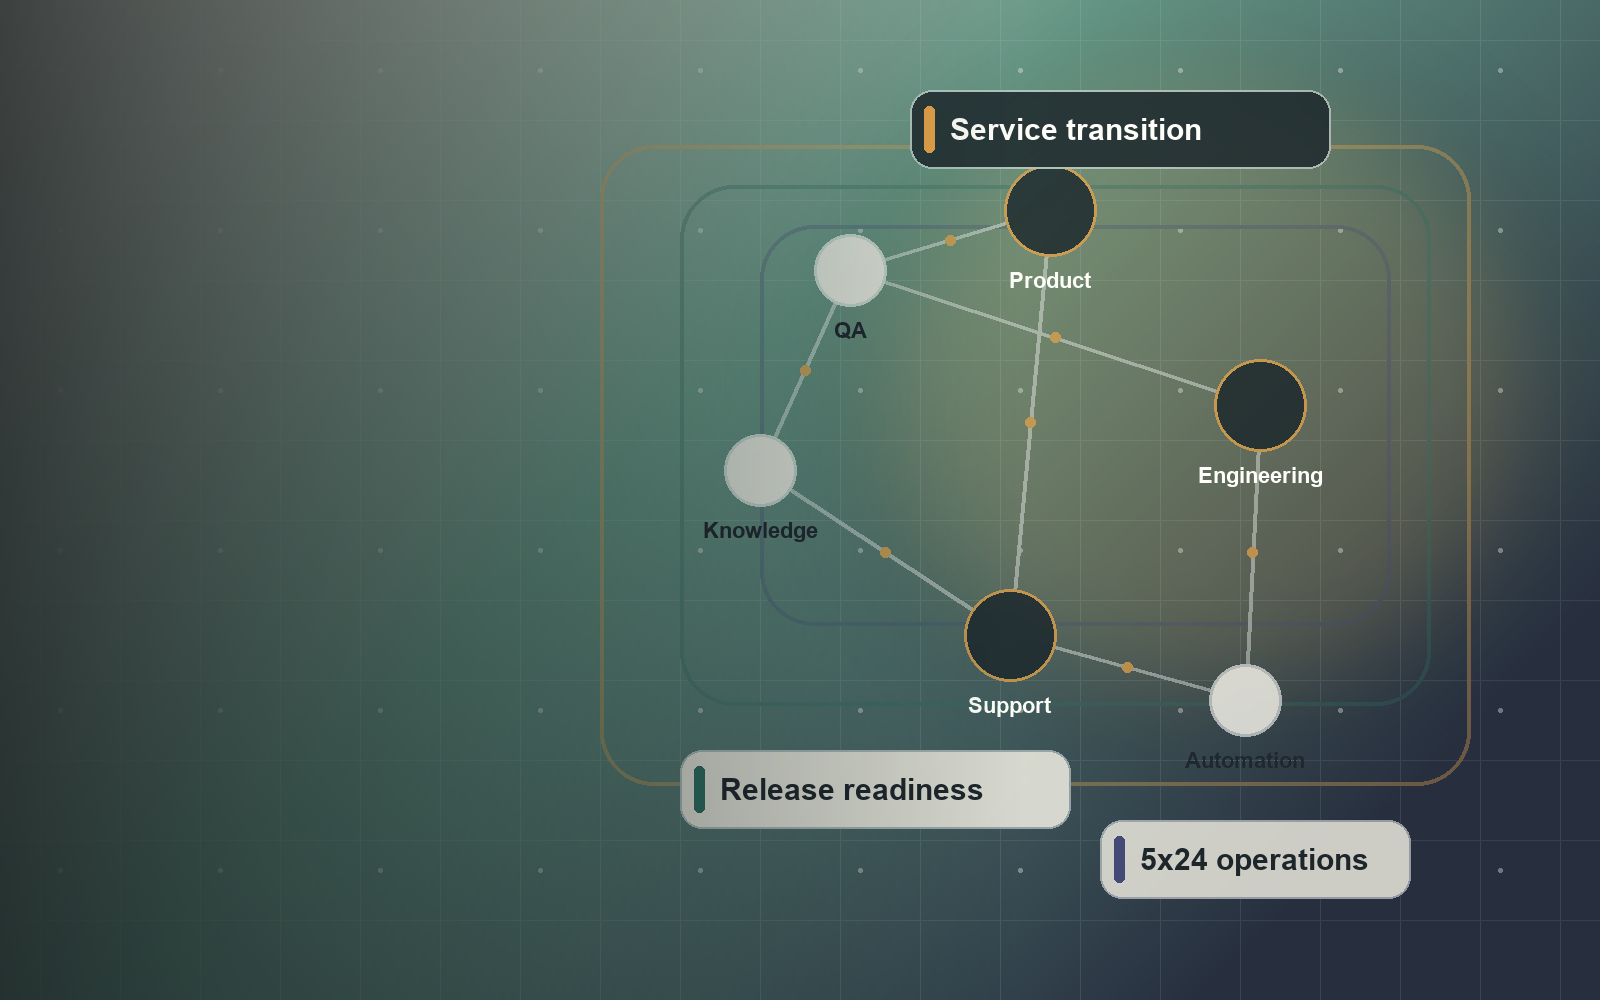
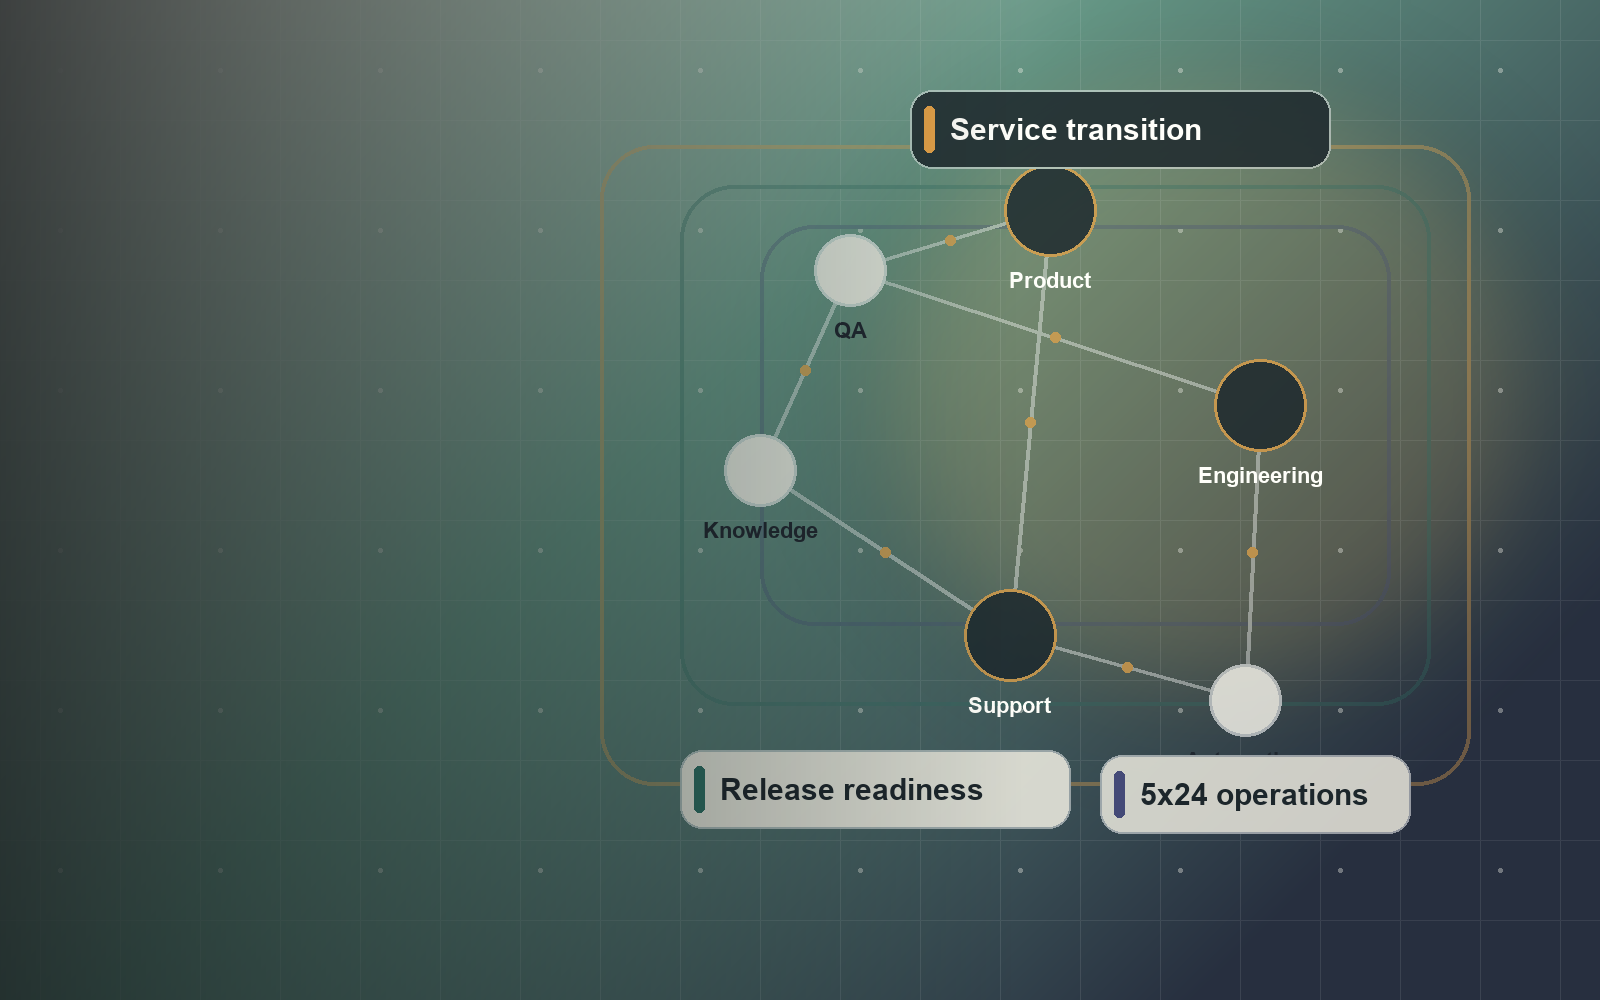
Add files via upload

Changed region(s): [[0.6875, 0.744, 0.9062, 0.899]]

diff --git a/styles.css b/styles.css
@@ -101,15 +101,15 @@ a {
 }
 
 .brand-mark {
-  display: inline-grid;
-  place-items: center;
   width: 38px;
   height: 38px;
-  border-radius: 8px;
-  background: linear-gradient(135deg, var(--green), var(--indigo));
-  color: #fffdf8;
-  font-size: 0.9rem;
-  line-height: 1;
+  flex: 0 0 auto;
+  border: 2px solid rgba(255, 253, 248, 0.82);
+  border-radius: 50%;
+  object-fit: cover;
+  object-position: center;
+  background: var(--paper-deep);
+  box-shadow: 0 0 0 1px rgba(201, 142, 52, 0.28);
 }
 
 .brand-name {
@@ -185,7 +185,7 @@ a {
   inset: 0;
   display: block;
   background-image: url("assets/support-operations-map.png");
-  background-position: center top;
+  background-position: center -110px;
   background-repeat: no-repeat;
   background-size: cover;
 }
@@ -214,6 +214,31 @@ a {
   font-weight: 900;
   letter-spacing: 0;
   text-transform: uppercase;
+}
+
+.hero-persona {
+  display: flex;
+  align-items: center;
+  gap: 18px;
+  margin-bottom: 20px;
+}
+
+.hero-persona .eyebrow {
+  max-width: 540px;
+  margin-bottom: 0;
+  line-height: 1.45;
+}
+
+.profile-photo {
+  width: 112px;
+  height: 112px;
+  flex: 0 0 auto;
+  border: 4px solid rgba(255, 253, 248, 0.9);
+  border-radius: 50%;
+  object-fit: cover;
+  object-position: center;
+  background: var(--paper-deep);
+  box-shadow: 0 20px 44px rgba(9, 14, 14, 0.32), 0 0 0 1px rgba(201, 142, 52, 0.35);
 }
 
 .hero h1 {
@@ -532,6 +557,17 @@ a {
   padding-top: 20px;
 }
 
+.company-logo {
+  display: block;
+  width: min(150px, 100%);
+  height: auto;
+  margin-bottom: 14px;
+  border: 1px solid var(--line);
+  border-radius: 8px;
+  background: var(--surface);
+  box-shadow: 0 12px 28px rgba(37, 33, 24, 0.08);
+}
+
 .timeline-meta span,
 .timeline-meta small {
   display: block;
@@ -652,6 +688,29 @@ a {
   overflow-wrap: break-word;
 }
 
+.credential-link {
+  display: inline-flex;
+  align-items: center;
+  margin-left: 10px;
+  border: 1px solid var(--line);
+  border-radius: 999px;
+  padding: 4px 9px;
+  background: var(--surface);
+  color: var(--green-dark);
+  font-size: 0.82rem;
+  font-weight: 900;
+  text-decoration: none;
+  white-space: nowrap;
+  transition: background 160ms ease, border-color 160ms ease, color 160ms ease;
+}
+
+.credential-link:hover,
+.credential-link:focus-visible {
+  border-color: rgba(35, 109, 98, 0.38);
+  background: #eaf3ee;
+  color: var(--green-dark);
+}
+
 .recognition-grid {
   display: grid;
   grid-template-columns: repeat(2, minmax(0, 1fr));
@@ -725,6 +784,28 @@ a {
   border-color: var(--line);
   background: var(--surface);
   color: var(--ink);
+}
+
+.button-icon {
+  width: 48px;
+  min-width: 48px;
+  padding: 9px;
+}
+
+.button-icon img {
+  width: 28px;
+  height: 28px;
+}
+
+.social-button {
+  border-color: var(--line);
+  background: var(--surface);
+}
+
+.social-button:hover,
+.social-button:focus-visible {
+  border-color: rgba(35, 109, 98, 0.42);
+  background: #f8fbf8;
 }
 
 .copy-status {
@@ -897,6 +978,17 @@ a {
     padding-bottom: 30px;
   }
 
+  .hero-persona {
+    gap: 12px;
+    margin-bottom: 16px;
+  }
+
+  .profile-photo {
+    width: 72px;
+    height: 72px;
+    border-width: 3px;
+  }
+
   .eyebrow {
     max-width: 19rem;
     line-height: 1.45;
@@ -925,6 +1017,12 @@ a {
     width: 100%;
   }
 
+  .contact-actions .button-icon {
+    width: 56px;
+    min-width: 56px;
+    flex: 0 0 56px;
+  }
+
   .hero-signals {
     display: none;
   }
@@ -938,6 +1036,12 @@ a {
   .values-list,
   .role-stack {
     grid-template-columns: 1fr;
+  }
+
+  .credential-link {
+    width: max-content;
+    max-width: 100%;
+    margin: 8px 0 0;
   }
 
   .metric-card,

diff --git a/index.html b/index.html
@@ -18,7 +18,14 @@
     <header class="site-header" data-header>
       <nav class="nav" aria-label="Main navigation">
         <a class="brand" href="#top" aria-label="Ionut-Marius Dutan home">
-          <span class="brand-mark">ID</span>
+          <img
+            class="brand-mark"
+            src="assets/profile-photo.jpeg"
+            alt=""
+            width="38"
+            height="38"
+            aria-hidden="true"
+          >
           <span class="brand-name">Ionut-Marius Dutan</span>
         </a>
 
@@ -42,7 +49,16 @@
       <section class="hero" id="top" aria-labelledby="hero-title">
         <div class="hero-media" aria-hidden="true"></div>
         <div class="hero-content section-shell">
-          <p class="eyebrow">Support Product Manager | Technical Support Engineer | QA Specialist | IT Operations Leader</p>
+          <div class="hero-persona">
+            <img
+              class="profile-photo"
+              src="assets/profile-photo.jpeg"
+              alt="Portrait of Ionut-Marius Dutan"
+              width="112"
+              height="112"
+            >
+            <p class="eyebrow">Support Product Manager | Technical Support Engineer | QA Specialist | IT Operations Leader</p>
+          </div>
           <h1 id="hero-title">Ionut-Marius Dutan</h1>
           <p class="hero-lead">
             I bridge Product, Engineering and Support to turn complex services into support-ready, measurable,
@@ -50,7 +66,7 @@
           </p>
 
           <div class="hero-actions" aria-label="Primary actions">
-            <a class="button button-primary" href="mailto:[email redacted]">Let's connect</a>
+            <a class="button button-primary" href="#contact">Let's connect</a>
             <a class="button button-secondary" href="assets/Ionut-Marius-Dutan-CV.pdf">View CV</a>
           </div>
 
@@ -61,7 +77,7 @@
             </li>
             <li>
               <strong>100+</strong>
-              <span>engineers trained, coached and enabled globally</span>
+              <span>Led global engineers, improving operational consistency and performance.</span>
             </li>
             <li>
               <strong>30%</strong>
@@ -101,7 +117,7 @@
             </article>
             <article class="metric-card reveal">
               <span class="metric-value">100%</span>
-              <p>FY23 product validation feedback contribution, surfacing enhancements that reduced disruptions.</p>
+              <p>FY23-FY26 product validation feedback contribution, surfacing enhancements that reduced disruptions.</p>
             </article>
           </div>
         </div>
@@ -178,6 +194,7 @@
           <div class="timeline">
             <article class="timeline-item reveal">
               <div class="timeline-meta">
+                <img class="company-logo" src="assets/logo-oracle.svg" alt="Oracle logo" width="180" height="64">
                 <span>Aug 2021 - Present</span>
                 <strong>Oracle</strong>
                 <small>Bucharest, Romania</small>
@@ -187,7 +204,7 @@
                 <ul class="role-stack" aria-label="Oracle role progression">
                   <li><strong>Support Product Manager</strong><span>Apr 2025 - Present</span></li>
                   <li><strong>Senior IT Support Engineer</strong><span>Sep 2023 - Present</span></li>
-                  <li><strong>Team Lead, EMEA IT Support</strong><span>Jan 2023 - Jan 2026</span></li>
+                  <li><strong>Team Lead, EMEA IT Support</strong><span>Jan 2023 - Jan 2025</span></li>
                   <li><strong>IT Support Engineer</strong><span>Aug 2021 - Sep 2023</span></li>
                 </ul>
                 <p>
@@ -207,6 +224,7 @@
 
             <article class="timeline-item reveal">
               <div class="timeline-meta">
+                <img class="company-logo" src="assets/logo-bitdefender.svg" alt="Bitdefender logo" width="180" height="64">
                 <span>Oct 2019 - Aug 2021</span>
                 <strong>Bitdefender</strong>
                 <small>Bucharest, Romania</small>
@@ -223,6 +241,7 @@
 
             <article class="timeline-item reveal">
               <div class="timeline-meta">
+                <img class="company-logo" src="assets/logo-pczone.svg" alt="PCZONE logo" width="180" height="64">
                 <span>Jan 2014 - Oct 2019</span>
                 <strong>PCZONE Online Distributie SRL</strong>
                 <small>Bucharest, Romania</small>
@@ -238,6 +257,7 @@
 
             <article class="timeline-item reveal">
               <div class="timeline-meta">
+                <img class="company-logo" src="assets/logo-taurus.svg" alt="Taurus Group logo" width="180" height="64">
                 <span>Feb 2010 - Jan 2014</span>
                 <strong>Taurus Group SRL</strong>
                 <small>Bucharest, Romania</small>
@@ -253,6 +273,7 @@
 
             <article class="timeline-item reveal">
               <div class="timeline-meta">
+                <img class="company-logo" src="assets/logo-forst.svg" alt="Forst Kron logo" width="180" height="64">
                 <span>Oct 2009 - Feb 2010</span>
                 <strong>Forst Kron SRL</strong>
                 <small>Brasov, Romania</small>
@@ -298,13 +319,28 @@
           <div class="credential-column reveal">
             <p class="section-kicker">Certifications and training</p>
             <ul class="credential-list">
-              <li>Oracle Fusion AI Agent Studio Foundations Associate - Rel 1</li>
-              <li>OCI 2025 Certified AI Foundations Associate</li>
-              <li>OCI 2025 Certified Foundations Associate</li>
-              <li>Cisco IT Essentials - Cisco Networking Academy</li>
+              <li>
+                Oracle Fusion AI Agent Studio Foundations Associate - Rel 1 - Oracle
+                <a class="credential-link" href="https://brm-certview.oracle.com/ords/certview/ScoreReport?ssn=OC2226422&amp;registrationID=asx-36fafce3-7274-49e7-ab92-1005ce69b484" target="_blank" rel="noreferrer">Verify credential</a>
+              </li>
+              <li>
+                Oracle Cloud Infrastructure 2025 Certified AI Foundations Associate - Oracle, issued May 2025
+                <a class="credential-link" href="https://catalog-education.oracle.com/ords/certview/sharebadge?id=5287D1B7B8503B24EA4DBC59A2C46F910EB5EB44E1AB7F6EEE8EF72065011835" target="_blank" rel="noreferrer">Verify credential</a>
+              </li>
+              <li>
+                Oracle Cloud Infrastructure 2025 Certified Foundations Associate - Oracle, issued May 2025
+                <a class="credential-link" href="https://catalog-education.oracle.com/ords/certview/sharebadge?id=E691A24C80CDD3D0F385F1B1998D191B605B74AFAE442BAC9DE0A98EC9920174" target="_blank" rel="noreferrer">Verify credential</a>
+              </li>
+              <li>
+                Cisco IT Essentials - Cisco Networking Academy
+                <a class="credential-link" href="assets/Cisco-IT%20Essentials%20ON-certificate.pdf" target="_blank" rel="noreferrer">View certificate</a>
+              </li>
               <li>Information Security Awareness</li>
               <li>Optimization with IBM ILOG OPL Workshop - IBM Linux Competency Center</li>
-              <li>Intel Advanced Specialist - Intel</li>
+              <li>
+                Intel Advanced Specialist - Intel
+                <a class="credential-link" href="assets/Intel_Advanced_Specialist_2011.pdf" target="_blank" rel="noreferrer">View certificate</a>
+              </li>
             </ul>
           </div>
         </div>
@@ -323,7 +359,10 @@
             <p class="section-kicker">Awards and recognition</p>
             <h3>Recognized for technical contribution</h3>
             <ul class="credential-list">
-              <li>Intel Technology Expert for the year 2015</li>
+              <li>
+                Intel Technology Expert for the year 2015
+                <a class="credential-link" href="assets/intel.pdf" target="_blank" rel="noreferrer">View certificate</a>
+              </li>
               <li>Intel Technology Expert for the year 2013</li>
               <li>Advanced English Skills Certificate</li>
             </ul>
@@ -358,7 +397,26 @@
           <div class="contact-actions">
             <a class="button button-primary" href="mailto:[email redacted]">[email redacted]</a>
             <a class="button button-secondary" href="tel:[phone redacted]">[phone redacted]</a>
-            <a class="button button-secondary" href="https://linkedin.com/in/dutanionutmarius" target="_blank" rel="noreferrer">LinkedIn</a>
+            <a
+              class="button button-icon social-button"
+              href="https://linkedin.com/in/dutanionutmarius"
+              target="_blank"
+              rel="noreferrer"
+              aria-label="Open LinkedIn profile"
+              title="LinkedIn"
+            >
+              <img src="assets/logo-linkedin.svg" alt="" width="26" height="26" aria-hidden="true">
+            </a>
+            <a
+              class="button button-icon social-button"
+              href="https://wa.me/[phone redacted]"
+              target="_blank"
+              rel="noreferrer"
+              aria-label="Message on WhatsApp"
+              title="WhatsApp"
+            >
+              <img src="assets/logo-whatsapp.svg" alt="" width="26" height="26" aria-hidden="true">
+            </a>
             <button class="button button-ghost" type="button" data-copy-email="[email redacted]">Copy email</button>
           </div>
           <p class="copy-status" aria-live="polite" data-copy-status></p>